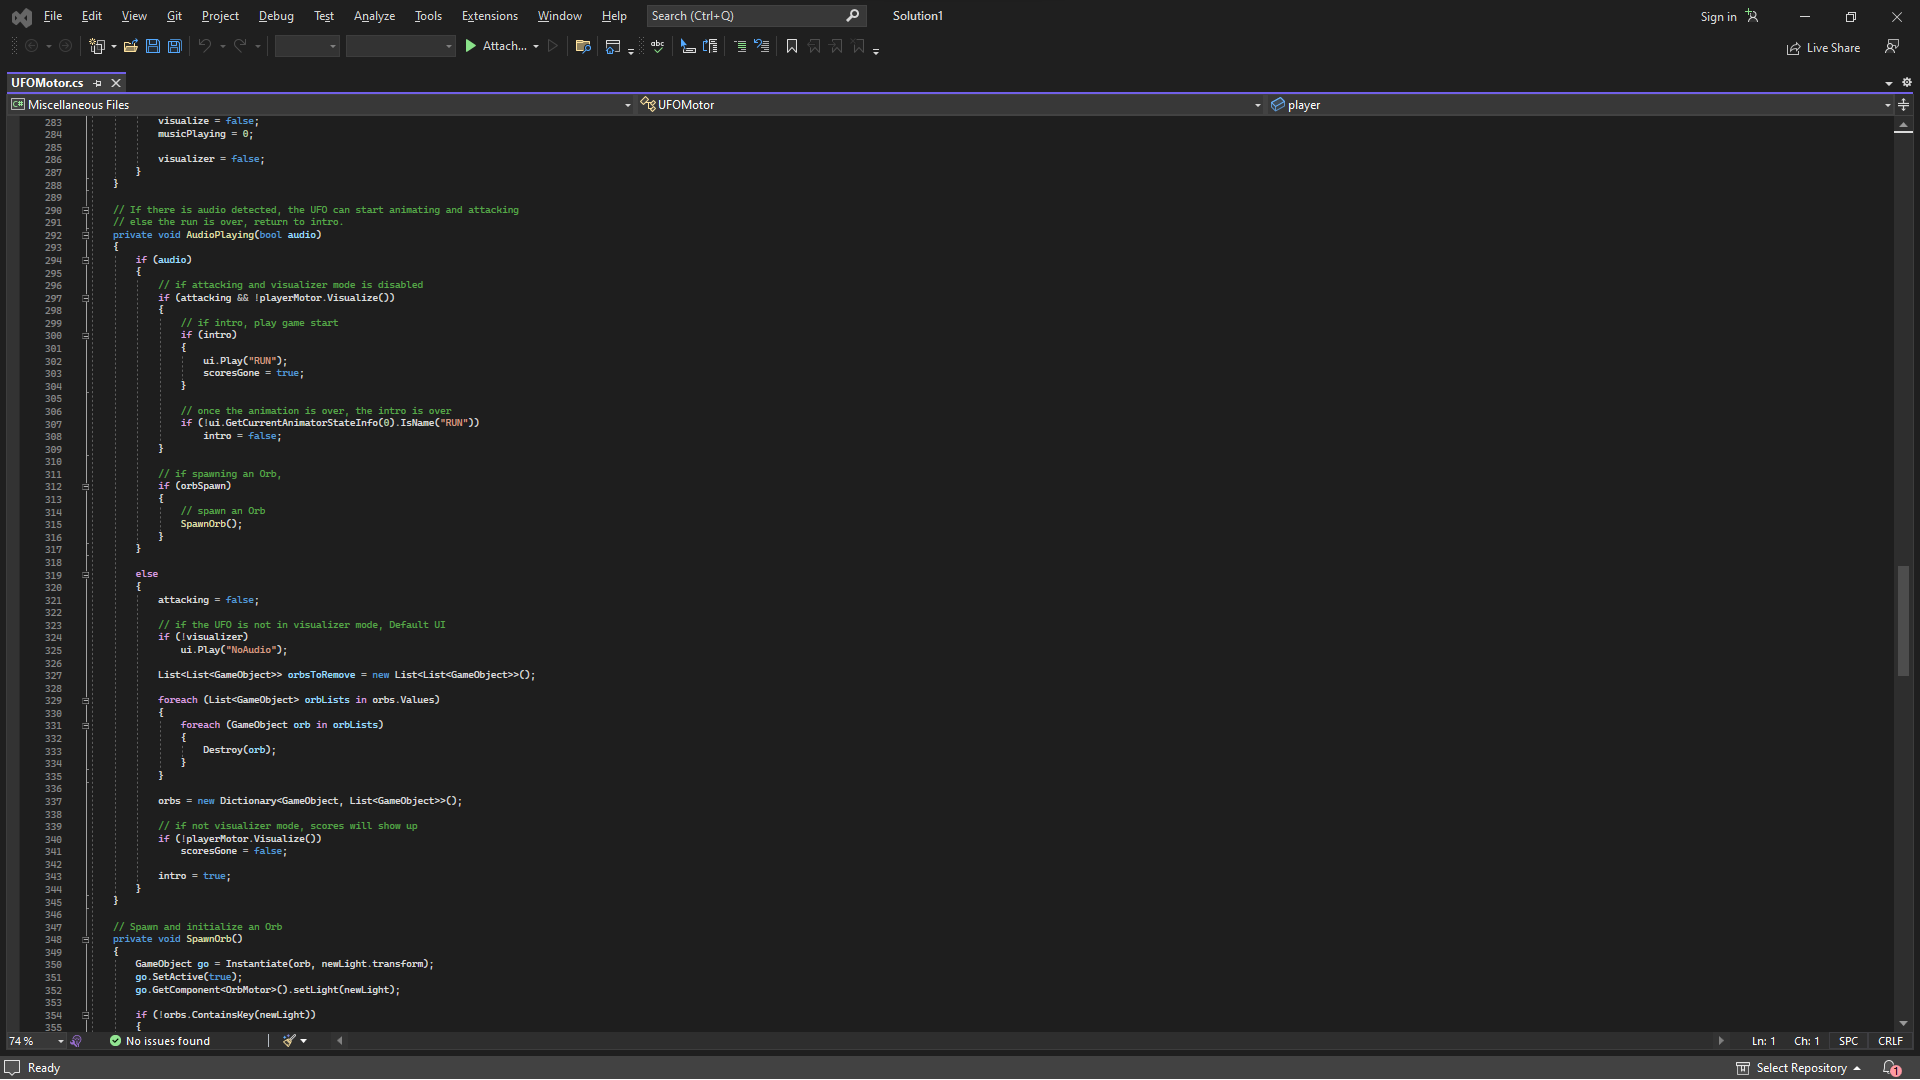
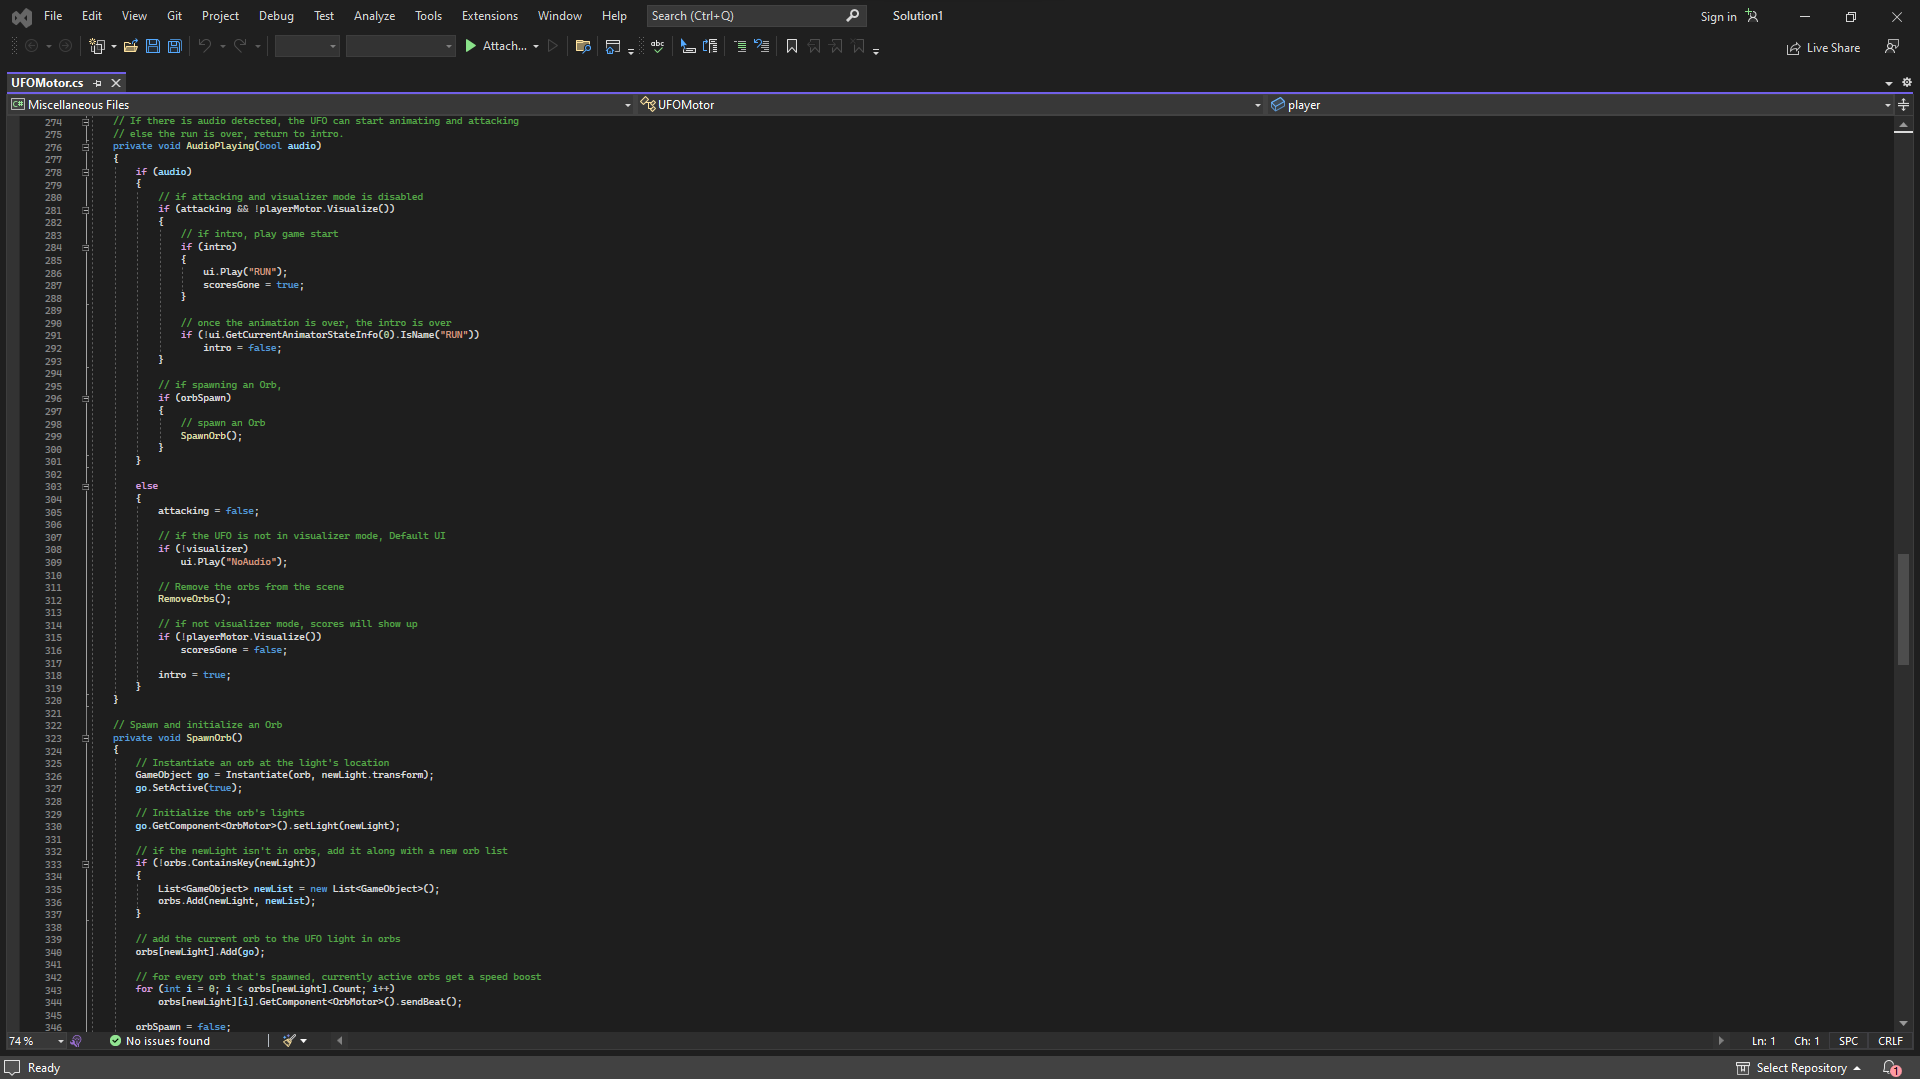
code update

Changed region(s): [[0.0625, 0.0917, 0.2812, 0.9778], [0.2188, 0.6111, 0.2812, 0.6417]]

diff --git a/src/components/pages/UFOMotor.cs b/src/components/pages/UFOMotor.cs
@@ -140,7 +140,7 @@ public class UFOMotor : MonoBehaviour
         minHeight = originalHeight - maxLower;
         maxHeight = originalHeight + maxRaise;
 
-        // List of orbs currently controlled by the UFO
+        // Dictionary of UFO lights that spawn orbs, along with their list of active orbs
         orbs = new Dictionary<GameObject, List<GameObject>>();
 
         // Used to properly calculate if the ufo is currently rising or falling, 
@@ -237,27 +237,19 @@ public class UFOMotor : MonoBehaviour
     {
         if (visOn && !visualizer)
         {
-            List<List<GameObject>> orbsToRemove = new List<List<GameObject>>();
-
-            foreach (List<GameObject> orbLists in orbs.Values)
-            {
-                foreach (GameObject orb in orbLists)
-                {
-                    Destroy(orb);
-                }
-            }
-
-            orbs = new Dictionary<GameObject, List<GameObject>>();
-            visualize = false;
-            attacking = false;
-            musicPlaying = 0;
-
             // if the scores are showing, remove scores
             if (!scoresGone)
             {
                 ui.Play("RemovePrevScores");
                 scoresGone = true;
             }
+
+            // Remove the orbs from the scene
+            RemoveOrbs();
+
+            visualize = false;
+            attacking = false;
+            musicPlaying = 0;
 
             visualizer = true;
         }
@@ -266,17 +258,9 @@ public class UFOMotor : MonoBehaviour
             // Default UI
             ui.Play("NoAudio");
 
-            List<List<GameObject>> orbsToRemove = new List<List<GameObject>>();
+            // Remove the orbs from the scene
+            RemoveOrbs();
 
-            foreach (List<GameObject> orbLists in orbs.Values)
-            {
-                foreach (GameObject orb in orbLists)
-                {
-                    Destroy(orb);
-                }
-            }
-
-            orbs = new Dictionary<GameObject, List<GameObject>>();
             scoresGone = false;
             attacking = false;
             intro = true;
@@ -324,17 +308,8 @@ public class UFOMotor : MonoBehaviour
             if (!visualizer)
                 ui.Play("NoAudio");
 
-            List<List<GameObject>> orbsToRemove = new List<List<GameObject>>();
-
-            foreach (List<GameObject> orbLists in orbs.Values)
-            {
-                foreach (GameObject orb in orbLists)
-                {
-                    Destroy(orb);
-                }
-            }
-
-            orbs = new Dictionary<GameObject, List<GameObject>>();
+            // Remove the orbs from the scene
+            RemoveOrbs();
 
             // if not visualizer mode, scores will show up
             if (!playerMotor.Visualize())
@@ -347,22 +322,44 @@ public class UFOMotor : MonoBehaviour
     // Spawn and initialize an Orb
     private void SpawnOrb()
     {
+        // Instantiate an orb at the light's location
         GameObject go = Instantiate(orb, newLight.transform);
         go.SetActive(true);
+
+        // Initialize the orb's lights
         go.GetComponent<OrbMotor>().setLight(newLight);
 
+        // if the newLight isn't in orbs, add it along with a new orb list
         if (!orbs.ContainsKey(newLight))
         {
             List<GameObject> newList = new List<GameObject>();
             orbs.Add(newLight, newList);
         }
 
+        // add the current orb to the UFO light in orbs
         orbs[newLight].Add(go);
 
+        // for every orb that's spawned, currently active orbs get a speed boost
         for (int i = 0; i < orbs[newLight].Count; i++)
             orbs[newLight][i].GetComponent<OrbMotor>().sendBeat();
 
         orbSpawn = false;
+    }
+
+    // Remove the active orbs from the scene
+    private void RemoveOrbs()
+    {
+        // iterate through the orbs list and destroy all active orbs in the scene
+        foreach (List<GameObject> orbLists in orbs.Values)
+        {
+            foreach (GameObject orb in orbLists)
+            {
+                Destroy(orb);
+            }
+        }
+
+        // Reinitialize orbs list
+        orbs = new Dictionary<GameObject, List<GameObject>>();
     }
 
     // Get spectrum data from SoundCapture and fill the data into m_audioSpectrum
